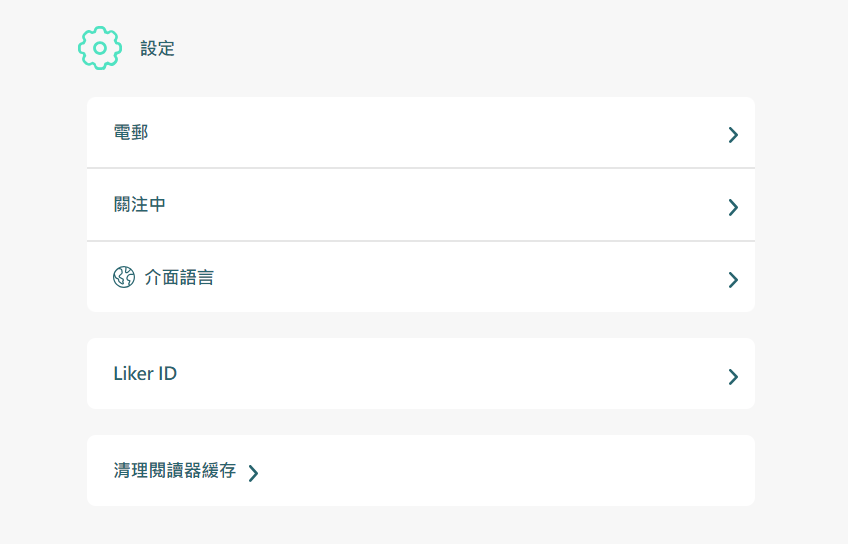
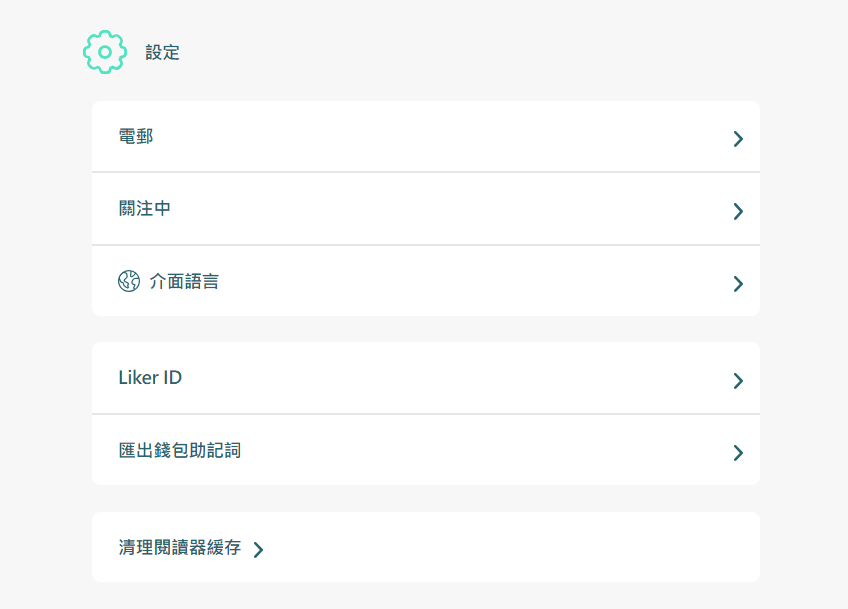
GITBOOK-4654: 匯出錢包助記詞

diff --git a/user-guide/liker-id/register/export-seed-words.md b/user-guide/liker-id/register/export-seed-words.md
@@ -1,0 +1,110 @@
+---
+description: LikeCoin 錢包終於可以匯出助記詞
+---
+
+# 匯出錢包助記詞
+
+由 2022 年 4 月開始，用戶可以匯出[以電郵或社交登入 ( Authcore ) 註冊 Liker ID](./) 的錢包助記詞並在其他錢包例如 Keplr 導入助記詞以管理自己的 [LikeCoin](https://like.co/)。
+
+在匯出錢包助記詞前，請留意：
+
+* 你的網絡與周邊環境是否安全。
+* 你使用的電腦是否經已進行病毒掃描以確保沒有病毒或木馬程式。
+
+## 以 LikeCoin 手機應用程式匯出助記詞
+
+### 步驟一：開始匯出錢包助記詞
+
+在手機應用程式右下角點設定後再點「匯出錢包助記詞」。
+
+<figure><img src="../../../.gitbook/assets/seed word mobile 1.png" alt=""><figcaption><p>點「匯出錢包助記詞」</p></figcaption></figure>
+
+### 步驟二：確認警告
+
+了解後，點「確認」，系統會要求重新再次登入帳戶。
+
+<figure><img src="../../../.gitbook/assets/seed word mobile 2.png" alt=""><figcaption><p>點「確認」</p></figcaption></figure>
+
+### 步驟三：輸入 Authcore 密碼
+
+再次輸入密碼後點「確認」。
+
+<figure><img src="../../../.gitbook/assets/seed word mobile 3.png" alt=""><figcaption><p>輸入密碼後點「確認」</p></figcaption></figure>
+
+### 步驟四：顯示助記詞
+
+點「複製」將助記詞複製到其他地方。
+
+<figure><img src="../../../.gitbook/assets/seed word mobile 4.png" alt=""><figcaption><p>點「複製」將助記詞複製</p></figcaption></figure>
+
+## 以桌面電腦匯出助記詞
+
+### 步驟一：到匯出錢包助記詞網址
+
+到 [Liker Land](https://liker.land/) 網站右上角點「瀏覽書店」。
+
+<figure><img src="../../../.gitbook/assets/Authcore 1.png" alt=""><figcaption><p>點「瀏覽書店」</p></figcaption></figure>
+
+點「登入」。
+
+<figure><img src="../../../.gitbook/assets/Authcore 2.png" alt=""><figcaption><p>點「登入」</p></figcaption></figure>
+
+點 Email/Social 使用 Liker ID 以電郵/社交登入。
+
+<figure><img src="../../../.gitbook/assets/Authcore 3.png" alt=""><figcaption><p>點 Email/Social 使用 Liker ID 以電郵/社交登入</p></figcaption></figure>
+
+登入後點右上角頭像，點「設定」再點「匯出錢包助記詞」。&#x20;
+
+<figure><img src="../../../.gitbook/assets/Seed Words 0.png" alt=""><figcaption></figcaption></figure>
+
+出現提示字句後點「接受」。
+
+![出現提示字句後點「接受」](<../../../.gitbook/assets/Seed Words 1.png>)
+
+### 步驟二：認證身份
+
+點「按此認證身份」。
+
+![點「按此認證身份」](<../../../.gitbook/assets/Seed Words 2.png>)
+
+### 步驟三：重新登入 Liker Land
+
+以 [Keplr](../../../general-guides/wallet/keplr/) 或 [LikeCoin 手機應用程式](../../liker-land/download.md) 登入 [Liker Land](https://liker.land/)。
+
+<figure><img src="../../../.gitbook/assets/Seed Words 3pre.png" alt=""><figcaption></figcaption></figure>
+
+又或者點「切換舊介面」以電郵及密碼，又或者任何一種[社交帳號登入](social-media-logins.md)方式登入 [Liker Land](https://liker.land/)。
+
+![重新登入 Liker Land](<../../../.gitbook/assets/Seed Words 3.png>)
+
+### 步驟四：輸入 Authcore 密碼
+
+輸入登入密碼，再點「顯示錢包助記詞」。
+
+![輸入登入密碼，再點「顯示錢包助記詞」](<../../../.gitbook/assets/Seed Words 4.png>)
+
+### 步驟五：複製錢包助記詞
+
+點複製即可複製錢包助記詞。
+
+![複製錢包助記詞](<../../../.gitbook/assets/Seed Words 5.png>)
+
+***
+
+接下來你可以將助記詞導入 Keplr, Cosmostation, Leap 或其他支援 Cosmos 生態系統的錢包：
+
+{% content-ref url="../../../general-guides/wallet/keplr/import-wallet-into-keplr.md" %}
+[import-wallet-into-keplr.md](../../../general-guides/wallet/keplr/import-wallet-into-keplr.md)
+{% endcontent-ref %}
+
+{% content-ref url="../../../general-guides/wallet/cosmostation/import-wallet-into-cosmostation.md" %}
+[import-wallet-into-cosmostation.md](../../../general-guides/wallet/cosmostation/import-wallet-into-cosmostation.md)
+{% endcontent-ref %}
+
+{% content-ref url="../../../general-guides/wallet/cosmostation-mobile/import-wallet-into-cosmostation-app.md" %}
+[import-wallet-into-cosmostation-app.md](../../../general-guides/wallet/cosmostation-mobile/import-wallet-into-cosmostation-app.md)
+{% endcontent-ref %}
+
+{% content-ref url="../../../general-guides/wallet/leap/import-wallet-into-leap.md" %}
+[import-wallet-into-leap.md](../../../general-guides/wallet/leap/import-wallet-into-leap.md)
+{% endcontent-ref %}

diff --git a/user-guide/liker-id/register-with-keplr.md b/user-guide/liker-id/register-with-keplr.md
@@ -13,7 +13,7 @@ description: 以 Keplr 去中化註冊  Liker ID 及管理你的 LikeCoin
 | **以 Keplr 錢包註冊 Liker ID**                                                                                                                               | **以**電郵或社交登入 **( Authcore ) 註冊 Liker ID**                                                                                                               |
 | ------------------------------------------------------------------------------------------------------------------------------------------------------- | ------------------------------------------------------------------------------------------------------------------------------------------------------- |
 | 需對區塊鏈及密碼貨幣有一定認識                                                                                                                                         | 提供較簡單的用戶體驗                                                                                                                                              |
-| 用戶需自行管理私鑰，安全性較高                                                                                                                                         | 由 Authcore 提供的密碼管理技術管理用戶私鑰，較容易使用，但註冊後用戶也可以[匯出私鑰](export-seed-words.md)自行管理錢包                                                                            |
+| 用戶需自行管理私鑰，安全性較高                                                                                                                                         | 由 Authcore 提供的密碼管理技術管理用戶私鑰，較容易使用，但註冊後用戶也可以[匯出私鑰](register/export-seed-words.md)自行管理錢包                                                                   |
 | 錢包支援包括 LikeCoin 的多種貨幣，如 ATOM、OSMO、AKT、CRO、KAVA 等等                                                                                                       | 錢包只支援 LikeCoin                                                                                                                                          |
 | 只能以 Keplr 錢包登入                                                                                                                                          | 可以[社交帳號](register/social-media-logins.md) ( Google, Facebook, etc ) 或電郵登入                                                                               |
 | 只能以桌面電腦 Chrome 瀏覽器的 Keplr extension 登入 Liker Land 網頁版，也 【**不能登入  LikeCoin app】**                                                                        | 可登入 [LikeCoin 手機應用程式](../liker-land/download.md)，也可以手機瀏覽器登入 Liker Land 網頁版                                                                              |

diff --git a/user-guide/liker-id/register/README.md b/user-guide/liker-id/register/README.md
@@ -4,7 +4,7 @@ description: Liker ID 要怎樣註冊？
 
 # 以電郵或社交登入 ( Authcore ) 註冊 Liker ID
 
-使用 [LikeCoin 手機應用程式](https://liker.land/getapp) 能以電郵或社交登入 ( Authcore ) 註冊 Liker ID。用戶亦可[從 Authcore 匯出你的助記詞](../export-seed-words.md)並導入 [Keplr](../../../general-guides/wallet/keplr/) 或其他[錢包](../../../general-guides/wallet/)，以便管理你的 [LikeCoin](https://like.co/)。
+使用 [LikeCoin 手機應用程式](https://liker.land/getapp) 能以電郵或社交登入 ( Authcore ) 註冊 Liker ID。用戶亦可[從 Authcore 匯出你的助記詞](export-seed-words.md)並導入 [Keplr](../../../general-guides/wallet/keplr/) 或其他[錢包](../../../general-guides/wallet/)，以便管理你的 [LikeCoin](https://like.co/)。
 
 ## 使用 LikeCoin 手機應用程式以電郵或社交登入 ( Authcore ) 註冊 Liker ID <a href="#likecoin-app" id="likecoin-app"></a>
 

diff --git a/SUMMARY.md b/SUMMARY.md
@@ -150,9 +150,9 @@
     * [綁定社交帳戶](user-guide/liker-id/register/social-media-logins.md)
     * [重設密碼](user-guide/liker-id/register/reset-password.md)
     * [管理登入裝置](user-guide/liker-id/register/devices.md)
+    * [匯出錢包助記詞](user-guide/liker-id/register/export-seed-words.md)
     * [什麼是 Authcore？](user-guide/liker-id/register/what-is-authcore.md)
   * [以 Keplr 註冊 Liker ID](user-guide/liker-id/register-with-keplr.md)
-  * [匯出 LikeCoin app 助記詞](user-guide/liker-id/export-seed-words.md)
   * [修改頭像及顯示名稱](user-guide/liker-id/edit-avatar-displayname.md)
 * [LikeCoin app](user-guide/liker-land/README.md)
   * [下載 LikeCoin app](user-guide/liker-land/download.md)

diff --git a/faq.md b/faq.md
@@ -97,7 +97,7 @@ description: LikeCoin 常見問題
 * [Liker ID 要怎樣註冊？](user-guide/liker-id/)
 * [什麼是 Authcore？](user-guide/liker-id/register/what-is-authcore.md)
 * [無法以社交帳號登入 Liker ID，怎麼辦？不知何解無法登入嗎？試試重設密碼吧！](user-guide/liker-id/register/reset-password.md)
-* [可以匯出 Liker ID 私鑰嗎？](user-guide/liker-id/export-seed-words.md)
+* [可以匯出 Liker ID 私鑰嗎？](user-guide/liker-id/register/export-seed-words.md)
 
 ### [LikeCoin button 讚賞鍵](faq.md#likecoin-button-zan-shang-jian)
 

diff --git a/general-guides/wallet/keplr-mobile/README.md b/general-guides/wallet/keplr-mobile/README.md
@@ -32,8 +32,8 @@ Keplr Mobile 是 Keplr 的手機版錢包。通過移動設備裝置的便利，
 
 #### 你亦可以匯出你的 Liker Land 助記詞以使用 Keplr 手機錢包：
 
-{% content-ref url="../../../user-guide/liker-id/export-seed-words.md" %}
-[export-seed-words.md](../../../user-guide/liker-id/export-seed-words.md)
+{% content-ref url="../../../user-guide/liker-id/register/export-seed-words.md" %}
+[export-seed-words.md](../../../user-guide/liker-id/register/export-seed-words.md)
 {% endcontent-ref %}
 
 {% content-ref url="import-wallet-into-keplr-mobile.md" %}

diff --git a/general-guides/wallet/leap/README.md b/general-guides/wallet/leap/README.md
@@ -34,8 +34,8 @@ Web3 唯一的非託管超級錢包。使用 Leap 是傳送、互換和委託密
 
 #### 你亦可以匯出你的 Liker Land 助記詞以使用 Leap 錢包：
 
-{% content-ref url="../../../user-guide/liker-id/export-seed-words.md" %}
-[export-seed-words.md](../../../user-guide/liker-id/export-seed-words.md)
+{% content-ref url="../../../user-guide/liker-id/register/export-seed-words.md" %}
+[export-seed-words.md](../../../user-guide/liker-id/register/export-seed-words.md)
 {% endcontent-ref %}
 
 {% content-ref url="import-wallet-into-leap.md" %}

diff --git a/general-guides/wallet/cosmostation/README.md b/general-guides/wallet/cosmostation/README.md
@@ -28,8 +28,8 @@ description: Cosmostation 是支援 LikeCoin 的多鏈錢包
 
 #### 你亦可以匯出你的 Liker Land 助記詞以使用 Cosmostation 錢包：
 
-{% content-ref url="../../../user-guide/liker-id/export-seed-words.md" %}
-[export-seed-words.md](../../../user-guide/liker-id/export-seed-words.md)
+{% content-ref url="../../../user-guide/liker-id/register/export-seed-words.md" %}
+[export-seed-words.md](../../../user-guide/liker-id/register/export-seed-words.md)
 {% endcontent-ref %}
 
 {% content-ref url="import-wallet-into-cosmostation.md" %}

diff --git a/user-guide/liker-land/download.md b/user-guide/liker-land/download.md
@@ -37,6 +37,6 @@ description: 要去哪裏下載 LikeCoin app？
 * [個人資料設定](../liker-id/edit-avatar-displayname.md)
 * 安全：[更改密碼](../liker-id/register/reset-password.md)、[雙重認證](../liker-id/register/verifying-email-address.md)、[裝置](../liker-id/register/devices.md)、[社交帳戶登入](../liker-id/register/social-media-logins.md)
 * Wallect Connect
-* [匯出錢包助記詞](../liker-id/export-seed-words.md)
+* [匯出錢包助記詞](../liker-id/register/export-seed-words.md)
 * 閱讀列表
 * [推文](superlike.md)

diff --git a/general-guides/wallet/cosmostation-mobile/README.md b/general-guides/wallet/cosmostation-mobile/README.md
@@ -34,8 +34,8 @@ description: Cosmostation 手機版
 
 #### 你亦可以匯出你的 Liker Land 助記詞以使用 Cosmostation 手機錢包：
 
-{% content-ref url="../../../user-guide/liker-id/export-seed-words.md" %}
-[export-seed-words.md](../../../user-guide/liker-id/export-seed-words.md)
+{% content-ref url="../../../user-guide/liker-id/register/export-seed-words.md" %}
+[export-seed-words.md](../../../user-guide/liker-id/register/export-seed-words.md)
 {% endcontent-ref %}
 
 {% content-ref url="import-wallet-into-cosmostation-app.md" %}

diff --git a/general-guides/wallet/keplr/README.md b/general-guides/wallet/keplr/README.md
@@ -24,8 +24,8 @@ description: Keplr 是支援 LikeCoin 的多鏈錢包
 
 #### 你亦可以匯出你的 Liker Land 助記詞以使用 Keplr 錢包：
 
-{% content-ref url="../../../user-guide/liker-id/export-seed-words.md" %}
-[export-seed-words.md](../../../user-guide/liker-id/export-seed-words.md)
+{% content-ref url="../../../user-guide/liker-id/register/export-seed-words.md" %}
+[export-seed-words.md](../../../user-guide/liker-id/register/export-seed-words.md)
 {% endcontent-ref %}
 
 {% content-ref url="import-wallet-into-keplr.md" %}
